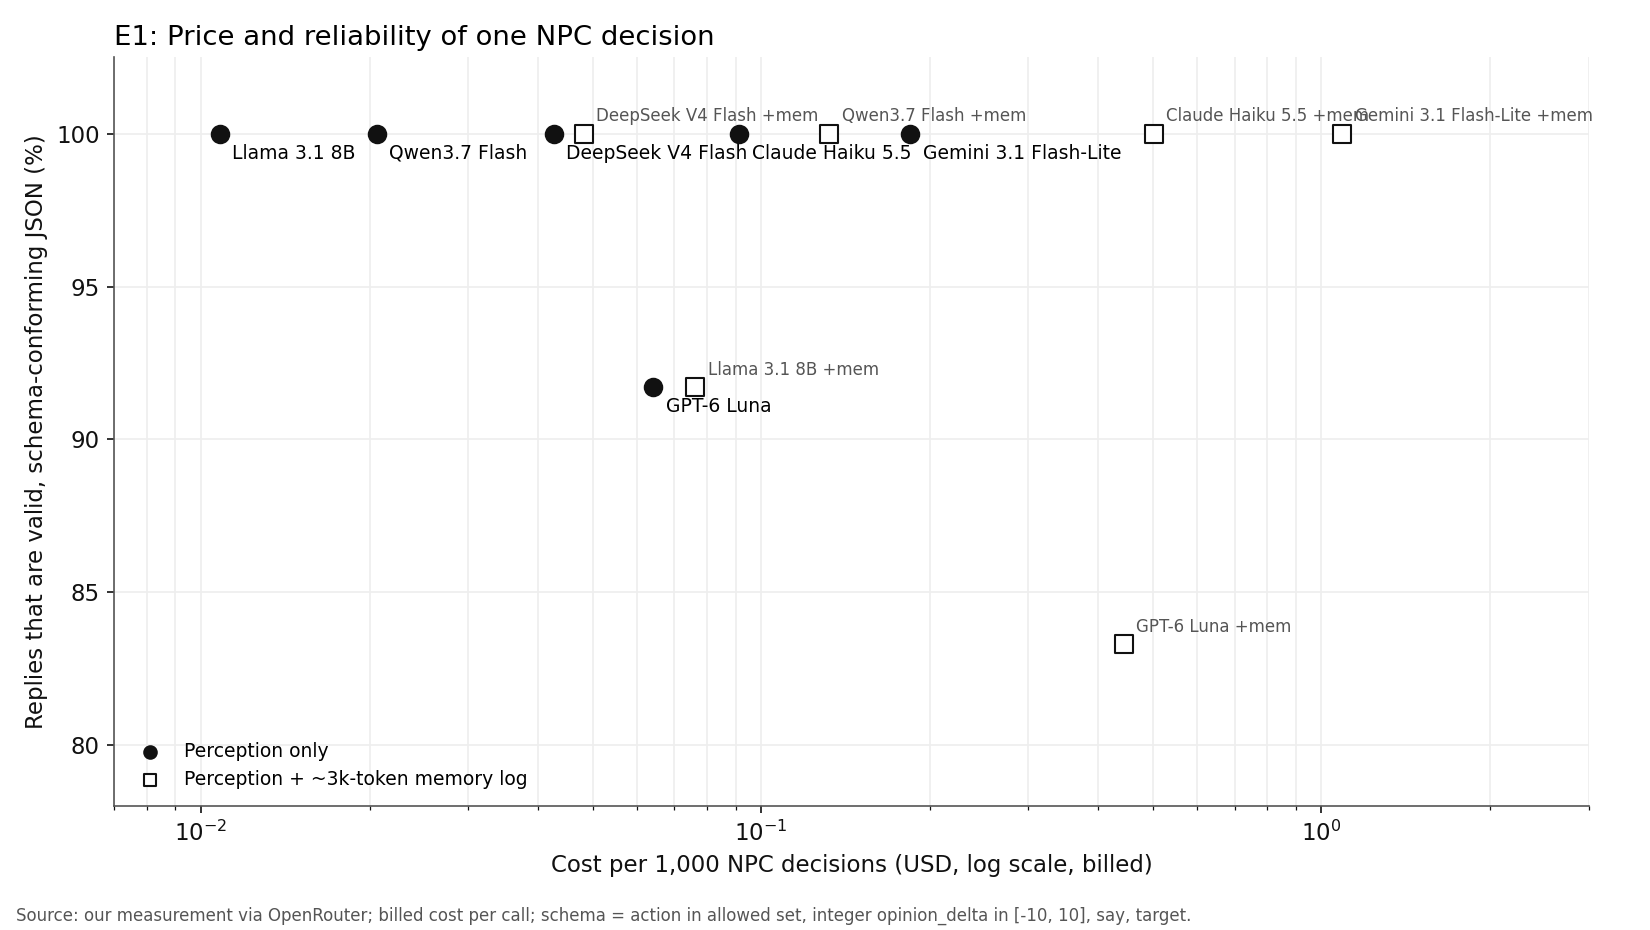
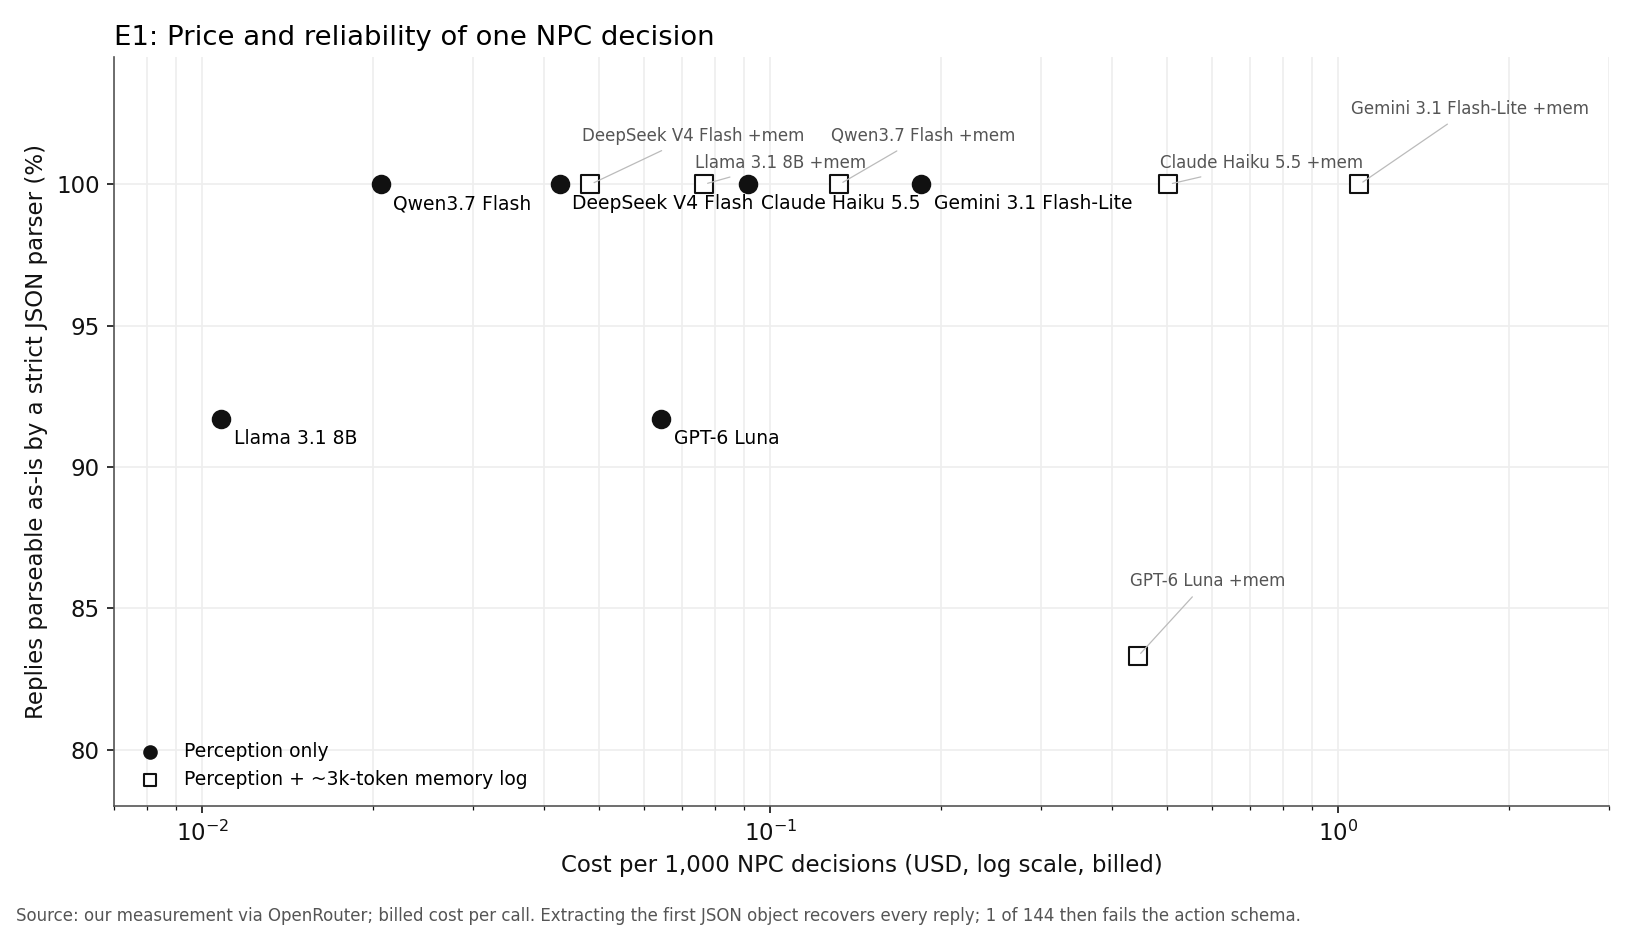
research: Living NPCs: A Classification of AI Integration Approaches for Game Characters

diff --git a/research/living-npcs-a-classification-of-ai-integration-approaches-for-game-characters/analysis.py b/research/living-npcs-a-classification-of-ai-integration-approaches-for-game-characters/analysis.py
@@ -43,7 +43,7 @@ def r(x, n=3):
 
 
 def parse(text):
-    """strict: whole reply is JSON; lenient: first {...} block after removing code fences."""
+    """strict: whole reply is JSON; lenient: first complete JSON object in the reply (ignores code fences and trailing text)."""
     t = text.strip()
     strict = lenient = None
     try:
@@ -51,10 +51,10 @@ def parse(text):
     except Exception:
         pass
     if strict is None:
-        m = re.search(r"\{.*\}", t, re.S)
-        if m:
+        k = t.find("{")
+        if k >= 0:
             try:
-                lenient = json.loads(m.group(0))
+                lenient = json.JSONDecoder().raw_decode(t[k:])[0]
             except Exception:
                 pass
     obj = strict if strict is not None else lenient
@@ -139,6 +139,10 @@ for cond in ["compact", "memory"]:
         "cost_per_1000_range_usd": [min(e1[m][cond]["cost_per_1000_decisions_usd"] for m in valid),
                                     max(e1[m][cond]["cost_per_1000_decisions_usd"] for m in valid)],
     }
+okc = [c for c in calls if not c["error"] and c["model"] in valid]
+pp = [parse(c["text"]) for c in okc]
+summary["parse_counts"] = {"calls": len(okc), "strict_fail": sum(not p[0] for p in pp),
+                           "lenient_fail": sum(not p[1] for p in pp), "schema_fail": sum(not p[2] for p in pp)}
 summary["memory_latency_ratio_median"] = r(st.median(
     e1[m]["memory"]["total_p50_s"] / e1[m]["compact"]["total_p50_s"] for m in valid))
 summary["memory_cost_ratio_median"] = r(st.median(
@@ -208,28 +212,29 @@ fig.tight_layout(rect=(0, 0.03, 1, 1)); fig.savefig(D("charts", "chart2.png")); 
 
 # chart 3: cost per 1,000 decisions vs schema-valid rate
 fig, ax = plt.subplots(figsize=(11, 6.2), dpi=150)
-for m in order:
+for j, m in enumerate(order):
     for cond, mk, fc in [("compact", "o", INK), ("memory", "s", "white")]:
         c = e1[m][cond]
-        ax.scatter(c["cost_per_1000_decisions_usd"], 100 * c["schema_valid_rate"], marker=mk, s=70,
+        ax.scatter(c["cost_per_1000_decisions_usd"], 100 * c["json_strict_rate"], marker=mk, s=70,
                    color=fc, edgecolor=INK, zorder=3)
     a, b = e1[m]["compact"], e1[m]["memory"]
-    ax.annotate(SHORT[m], (a["cost_per_1000_decisions_usd"], 100 * a["schema_valid_rate"]),
+    ax.annotate(SHORT[m], (a["cost_per_1000_decisions_usd"], 100 * a["json_strict_rate"]),
                 xytext=(6, -12), textcoords="offset points", fontsize=9)
-    ax.annotate(SHORT[m] + " +mem", (b["cost_per_1000_decisions_usd"], 100 * b["schema_valid_rate"]),
-                xytext=(6, 6), textcoords="offset points", fontsize=8, color=MID)
+    ax.annotate(SHORT[m] + " +mem", (b["cost_per_1000_decisions_usd"], 100 * b["json_strict_rate"]),
+                xytext=(-4, 8 + 13 * (j % 3)), textcoords="offset points", fontsize=8, color=MID,
+                ha="left", arrowprops=dict(arrowstyle="-", color=LIGHT, lw=0.6))
 ax.scatter([], [], marker="o", color=INK, label="Perception only")
 ax.scatter([], [], marker="s", color="white", edgecolor=INK, label="Perception + ~3k-token memory log")
 ax.set_xscale("log")
 ax.set_xlabel("Cost per 1,000 NPC decisions (USD, log scale, billed)")
-ax.set_ylabel("Replies that are valid, schema-conforming JSON (%)")
-ax.set_ylim(78, 102.5)
+ax.set_ylabel("Replies parseable as-is by a strict JSON parser (%)")
+ax.set_ylim(78, 104.5)
 ax.set_xlim(0.007, 3)
 ax.set_title("E1: Price and reliability of one NPC decision", loc="left")
 ax.legend(frameon=False, fontsize=9, loc="lower left")
 ax.grid(color=PALE, which="both")
-fig.text(0.01, 0.01, "Source: our measurement via OpenRouter; billed cost per call; schema = action in allowed set, "
-         "integer opinion_delta in [-10, 10], say, target.", fontsize=8, color=MID)
+fig.text(0.01, 0.01, "Source: our measurement via OpenRouter; billed cost per call. Extracting the first JSON object recovers "
+         "every reply; 1 of 144 then fails the action schema.", fontsize=8, color=MID)
 fig.tight_layout(rect=(0, 0.03, 1, 1)); fig.savefig(D("charts", "chart3.png")); plt.close(fig)
 
 # ---------------- E2 ----------------
